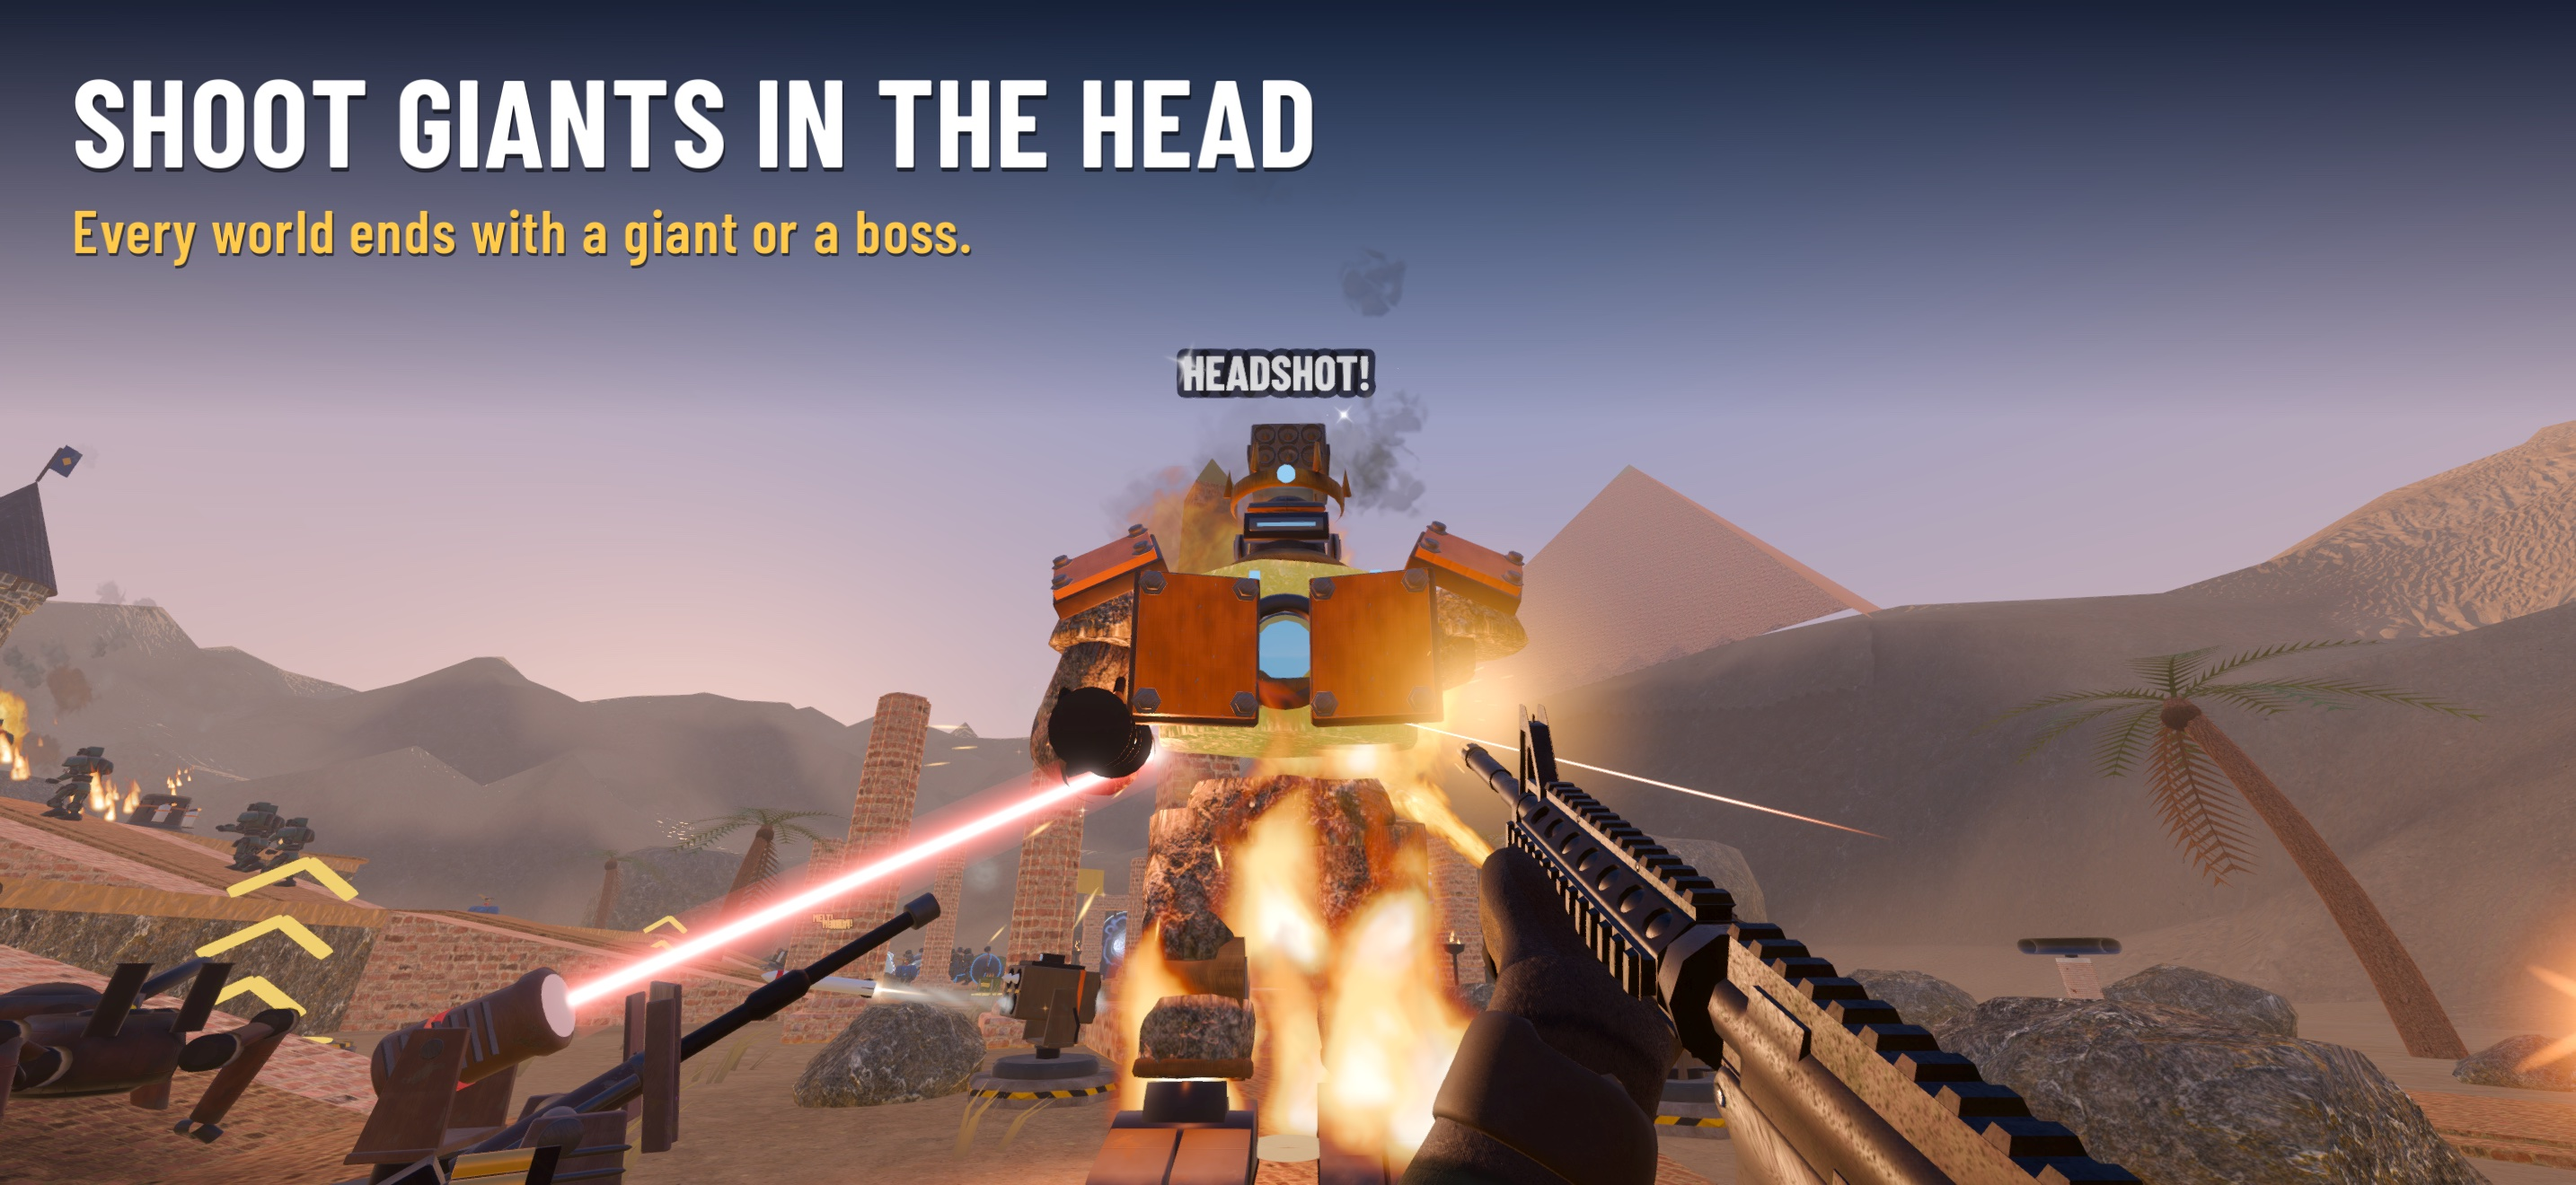
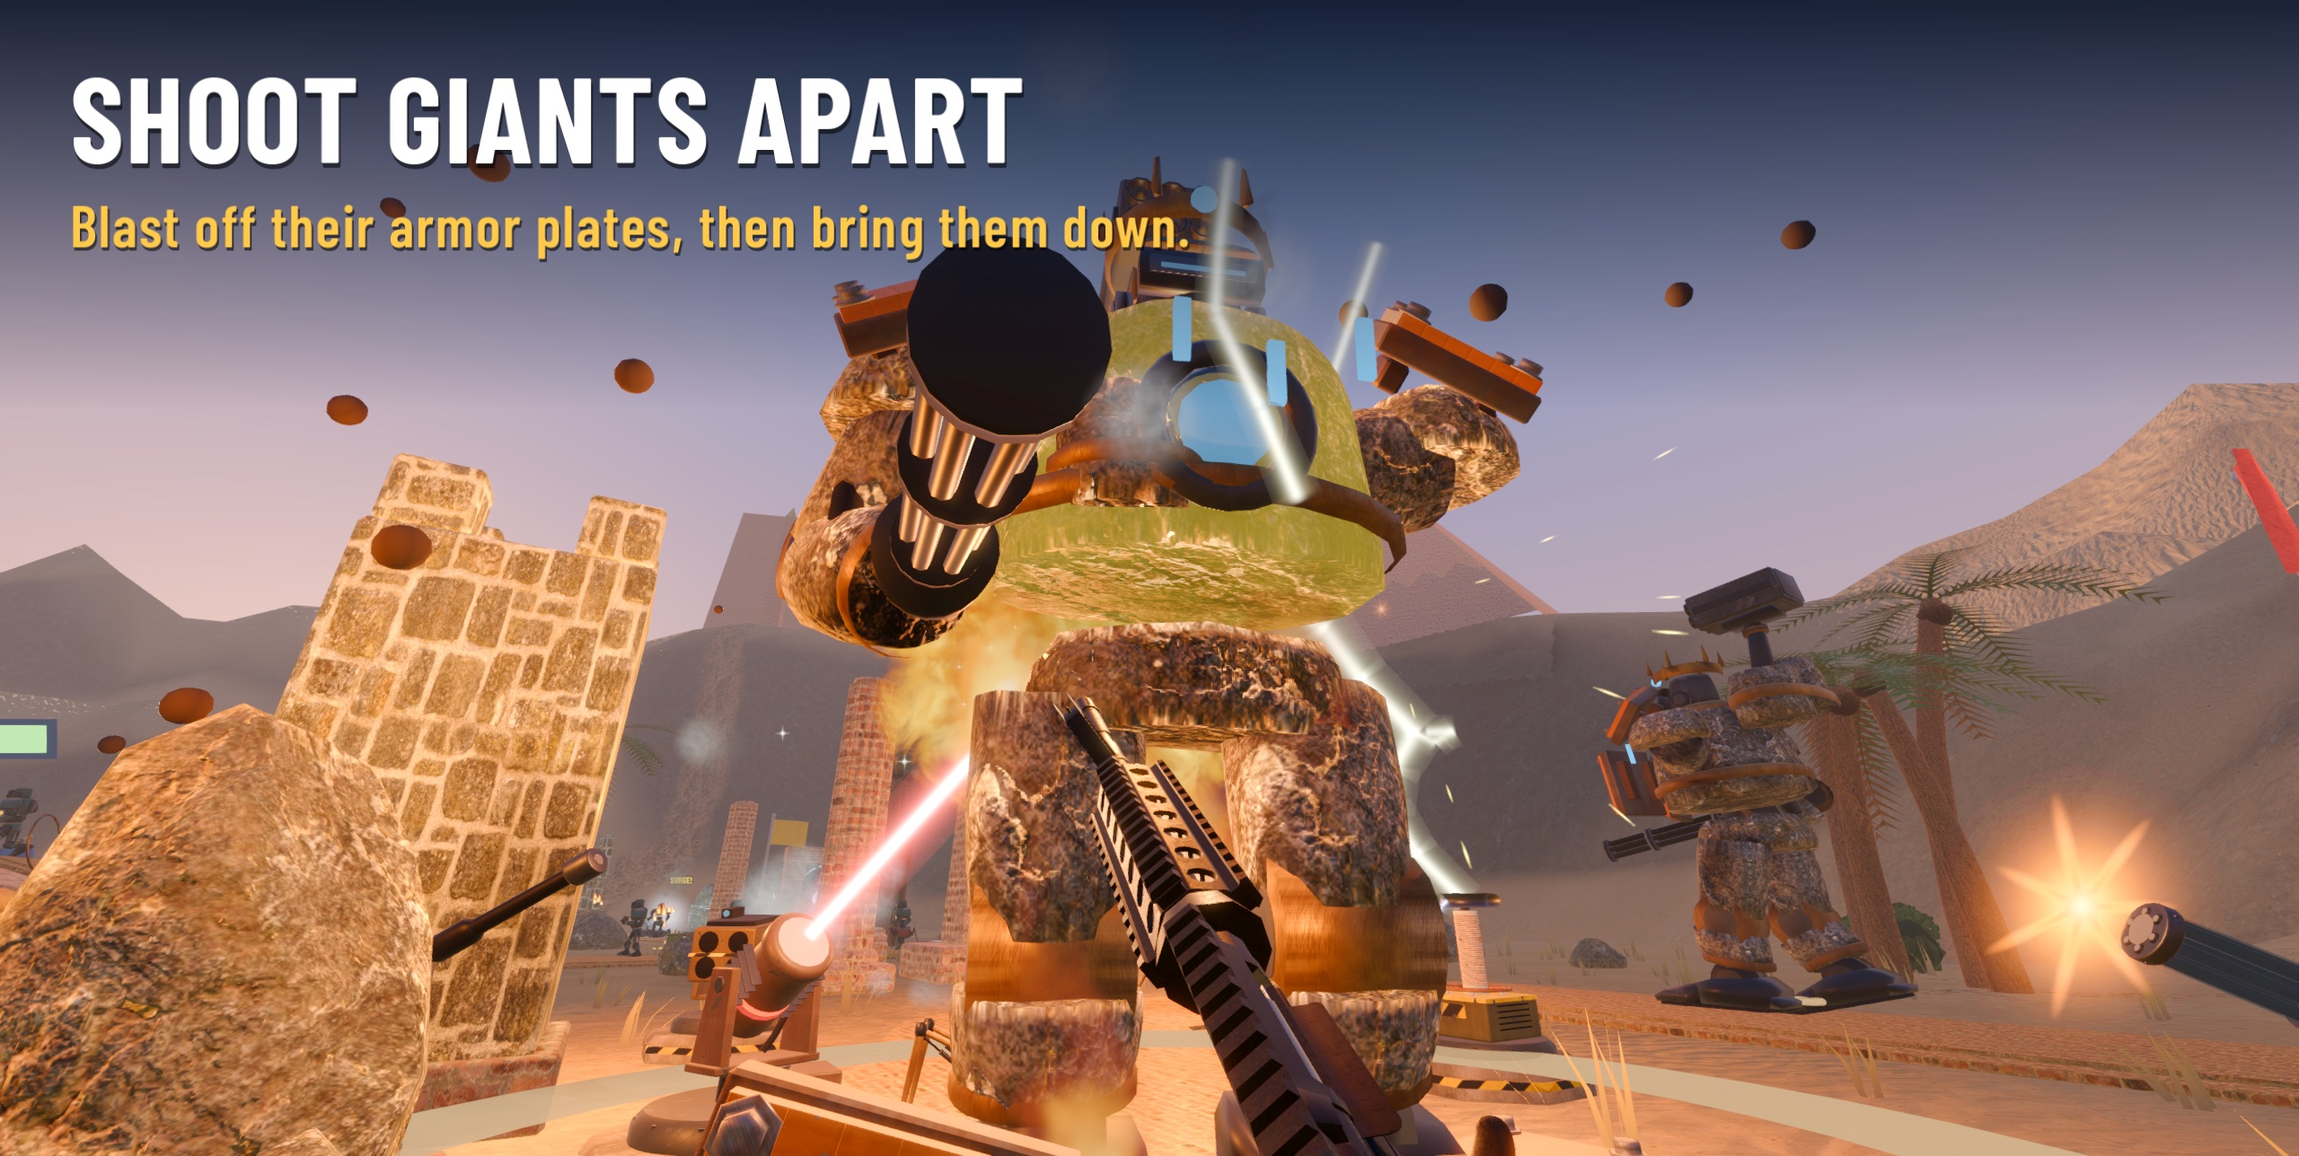
Press kit: screenshot 7 shoots an armor plate off Titan Prime (SHOOT GIANTS APART)

diff --git a/press/index.html b/press/index.html
@@ -52,7 +52,7 @@ video, .shots img { width: 100%; height: auto; display: block; border-radius: 10
 </div>
 </header>
 
-<p>Build turrets along the roads, then pick up a gun and fight beside them. Crossfire Keep is tower defense where you're on the battlefield: plan your defenses between waves, then hold the line in first person with iron sights, recoil, reloads and headshots. You fight from inside your own kill zone, turrets firing past you on both sides, and you're never pinned to one spot: sprint between firing spots, ride a jump pad up to high ground, vault off the battlements under a parachute, dive behind sandbags when they shoot back. When a giant walks up the road, you aim for its head. When the waves pour in from every gate at once, you call down the Missile Silo.</p>
+<p>Build turrets along the roads, then pick up a gun and fight beside them. Crossfire Keep is tower defense where you're on the battlefield: plan your defenses between waves, then hold the line in first person with iron sights, recoil, reloads and headshots. You fight from inside your own kill zone, turrets firing past you on both sides, and you're never pinned to one spot: sprint between firing spots, ride a jump pad up to high ground, vault off the battlements under a parachute, dive behind sandbags when they shoot back. When a giant walks up the road, you shoot its armor plates off. When the waves pour in from every gate at once, you call down the Missile Silo.</p>
 <p>Crossfire Keep is the first game by Evans Lin, an independent developer working alone: the tower defense game Evans wanted to play, where you fight beside your turrets. The billboards in its levels advertise the family's new bakery, Two Mice Three Cats in San Ramon, California, a small business just starting out too.</p>
 
 <h2>Made for three kinds of player</h2>
@@ -101,7 +101,7 @@ video, .shots img { width: 100%; height: auto; display: block; border-radius: 10
 <a href="iphone_04_turrets.jpg"><img src="iphone_04_turrets.jpg" alt="24 turrets, you in the middle: firing your rifle inside a battery of eight in the snow" loading="lazy"></a>
 <a href="iphone_05_upgrade.jpg"><img src="iphone_05_upgrade.jpg" alt="Upgrade and awaken: an awakened Flamethrower's fireball rolling into the wave beside you" loading="lazy"></a>
 <a href="iphone_06_chute.jpg"><img src="iphone_06_chute.jpg" alt="Jump into the fight: gliding down under a parachute at the wave and the turrets at the gate" loading="lazy"></a>
-<a href="iphone_07_giant.jpg"><img src="iphone_07_giant.jpg" alt="Shoot giants in the head: Titan Prime at the Great Pyramid in the turrets' fire" loading="lazy"></a>
+<a href="iphone_07_giant.jpg"><img src="iphone_07_giant.jpg" alt="Shoot giants apart: an armor plate flies off Titan Prime at the Great Pyramid in the turrets' fire" loading="lazy"></a>
 <a href="iphone_08_traps.jpg"><img src="iphone_08_traps.jpg" alt="12 traps for the road: a wave on the traps under the turrets' fire" loading="lazy"></a>
 <a href="iphone_09_silo.jpg"><img src="iphone_09_silo.jpg" alt="When they overrun you: the Missile Silo on a wave pouring in from three gates" loading="lazy"></a>
 <a href="iphone_10_world.jpg"><img src="iphone_10_world.jpg" alt="18 worlds, 90 levels: six of the maps, from Lighthouse Point to Highland Bridge" loading="lazy"></a>
